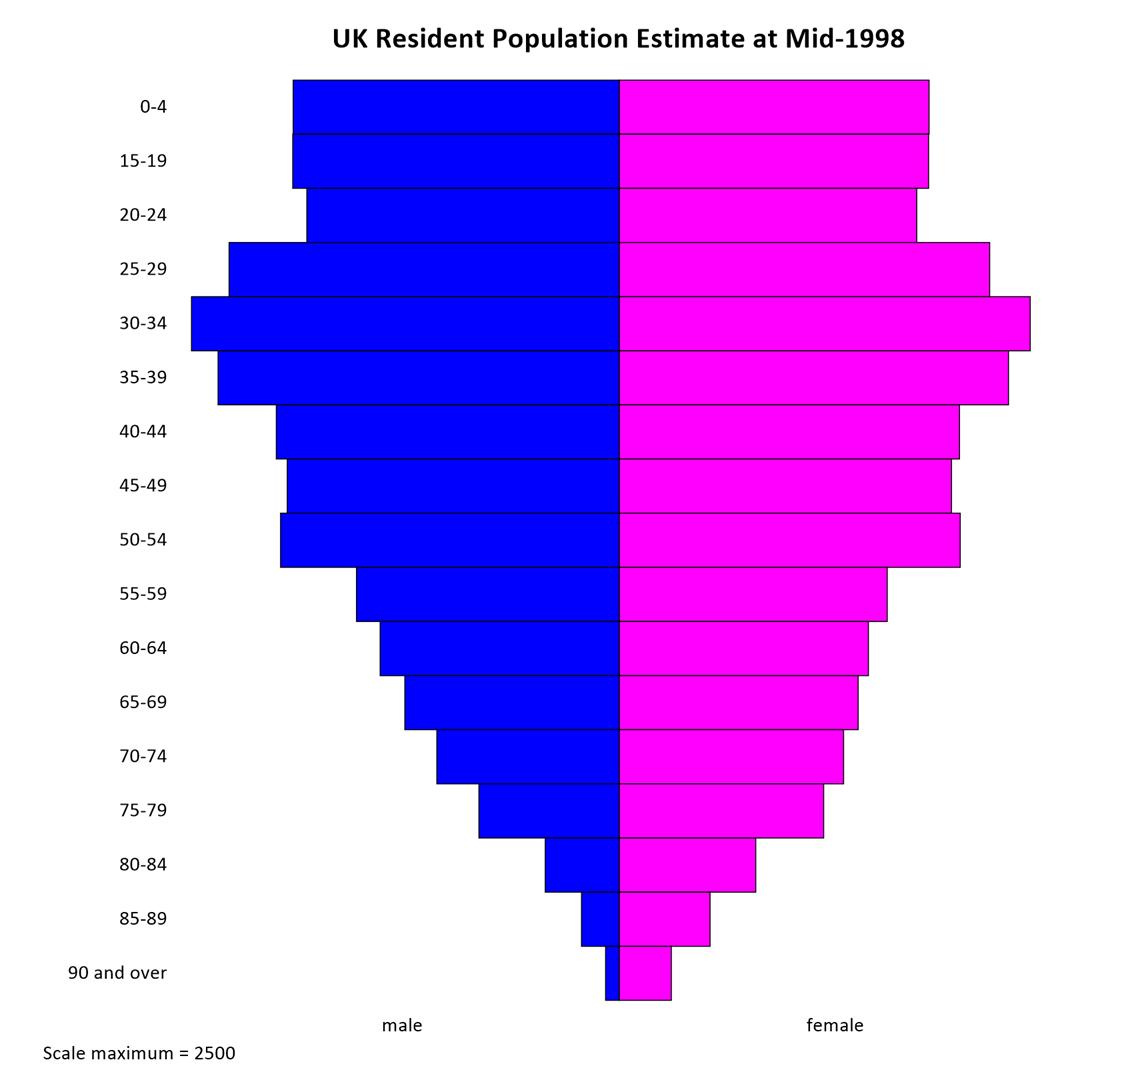
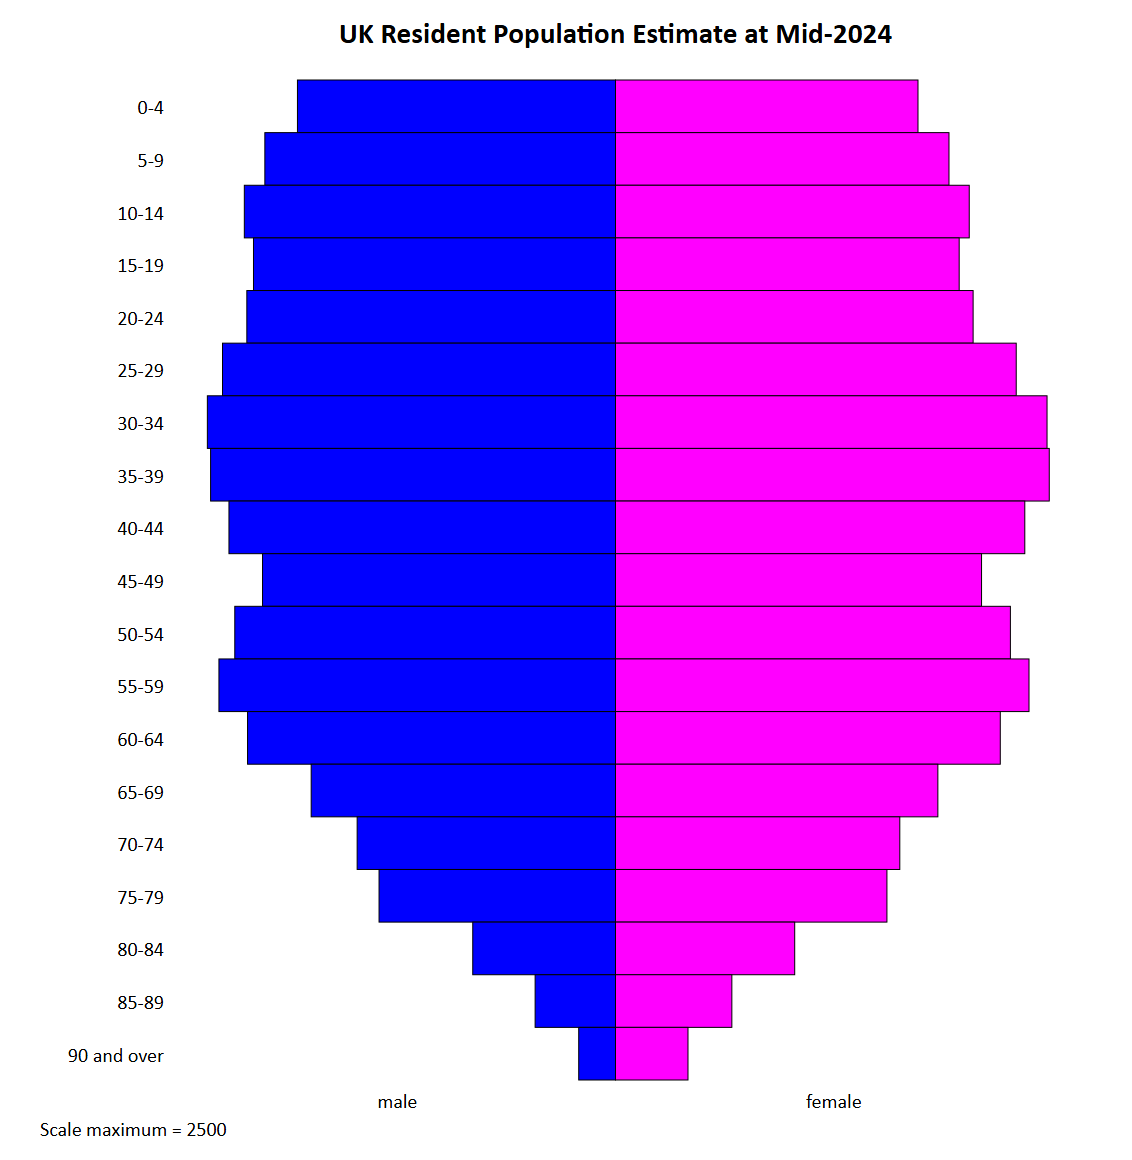
Population pyramid: the example, its R code and its picture follow the test workbook's mid-2024 columns
The workbook's UK Mid-98 columns lacked the 5-9 and 10-14 age bands and are replaced by the Office for National Statistics mid-2024 estimates for the United Kingdom in all 19 bands (UK Mid-2024 Age Bands, Males, Females, Persons), so the example describes and quotes those: the scale maximum of 2500 from the largest count (2484.3 thousand females aged 35-39), Males = 33908.5 and Females = 35347.8 thousand, the widest bands 30-34 and 35-39, males ahead up to 20-24 and females from 25-29, and 1.97 women for each man at 90 and over. The picture is the program's drawing of the new columns, 19 bands, titled for mid-2024. The script holds the 19 rows and prints the same figures; the expected fragments follow.

diff --git a/Content/graphics/population_pyramid.htm b/Content/graphics/population_pyramid.htm
@@ -18,24 +18,24 @@
         <p>StatsDirect lets you specify the maximum scale factor. You might want to specify a maximum scale factor if you are producing several population pyramids that you want to compare on the same scale, in this case the same scale value should be used for all plots.</p>
         <p>&#160;</p>
         <p>
-            <img src="../resources/Images/pyramid.svg" width="566" height="540" border="0" MadCap:conditions="Primary.WEBHELP" /><img src="../resources/Images/pyramid.png" width="566" height="540" border="0" MadCap:conditions="Primary.SWHELP" style="-ms-interpolation-mode: bicubic;" />
+            <img src="../resources/Images/pyramid.svg" width="566" height="580" border="0" MadCap:conditions="Primary.WEBHELP" /><img src="../resources/Images/pyramid.png" width="566" height="580" border="0" MadCap:conditions="Primary.SWHELP" style="-ms-interpolation-mode: bicubic;" />
         </p>
         <p>&#160;</p>
         <p><u>Example</u>
         </p>
-        <p>Test workbook (Graphics worksheet: UK Mid-98 Age Bands, UK Mid-98 Males, UK Mid-98 Females).</p>
+        <p>Test workbook (Graphics worksheet: UK Mid-2024 Age Bands, UK Mid-2024 Males, UK Mid-2024 Females).</p>
         <p>&#160;</p>
-        <p>The chart above shows the resident population of the United Kingdom at mid-1998, in thousands, by sex and five-year age band (Office for National Statistics mid-year estimates). The column marked "UK Mid-98 Age Bands" holds the labels of the 17 age bands in the workbook (the 5-9 and 10-14 bands are not in it), and the columns marked "UK Mid-98 Males" and "UK Mid-98 Females" hold the counts of males and females in each band. The column marked "UK Mid-98 Persons" holds the totals of the two, for a pyramid of totals.</p>
+        <p>The chart above shows the resident population of the United Kingdom at mid-2024, in thousands, by sex and five-year age band (Office for National Statistics mid-year estimates, from the Nomis service). The column marked "UK Mid-2024 Age Bands" holds the labels of the 19 age bands, from 0-4 to 90 and over, and the columns marked "UK Mid-2024 Males" and "UK Mid-2024 Females" hold the counts of males and females in each band. The column marked "UK Mid-2024 Persons" holds the totals of the two, for a pyramid of totals.</p>
         <p>&#160;</p>
-        <p>To draw it in StatsDirect open the test workbook using the file open function of the file menu. Then select Population Pyramid from the Graphics menu. Select the column marked "UK Mid-98 Males" when prompted for the numbers in age groups, the column marked "UK Mid-98 Females" when prompted for the numbers in female age groups, and the column marked "UK Mid-98 Age Bands" when prompted for the group labels. StatsDirect then shows the chart options, where you can type a title and change the scale maximum. The chart above is titled "UK Resident Population Estimate at Mid-1998"; otherwise the chart is titled "Population pyramid".</p>
+        <p>To draw it in StatsDirect open the test workbook using the file open function of the file menu. Then select Population Pyramid from the Graphics menu. Select the column marked "UK Mid-2024 Males" when prompted for the numbers in age groups, the column marked "UK Mid-2024 Females" when prompted for the numbers in female age groups, and the column marked "UK Mid-2024 Age Bands" when prompted for the group labels. StatsDirect then shows the chart options, where you can type a title and change the scale maximum. The chart above is titled "UK Resident Population Estimate at Mid-2024"; otherwise the chart is titled "Population pyramid".</p>
         <p>&#160;</p>
         <p>For this example:</p>
         <p>&#160;</p>
-        <p>The chart draws a bar for each age band, in worksheet order from the top, with the males' count to the left of the centre line and the females' count to the right. Both halves run from 0 at the centre to the scale maximum at the edge, and there is no axis: the scale maximum is written under the chart. Scale maximum = 2500, the default, which is the largest count (2469 thousand males aged 30-34) rounded up to a neat value, or the largest count itself when that is greater; give pyramids that are to be compared the same scale maximum. A pyramid drawn from a single column of totals, with the female column skipped, is split evenly about the centre line.</p>
+        <p>The chart draws a bar for each age band, in worksheet order from the top, with the males' count to the left of the centre line and the females' count to the right. Both halves run from 0 at the centre to the scale maximum at the edge, and there is no axis: the scale maximum is written under the chart. Scale maximum = 2500, the default, which is the largest count (2484.3 thousand females aged 35-39) rounded up to a neat value, or the largest count itself when that is greater; give pyramids that are to be compared the same scale maximum. A pyramid drawn from a single column of totals, with the female column skipped, is split evenly about the centre line.</p>
         <p>&#160;</p>
-        <p>Males = 25175.6 thousand, Females = 26351.8 thousand.</p>
+        <p>Males = 33908.5 thousand, Females = 35347.8 thousand.</p>
         <p>&#160;</p>
-        <p>The pyramid is widest at 30-34, the largest band, which holds the generation born in the 1960s; the bands from 55-59 onwards, born before 1945, are markedly narrower. The two halves are nearly symmetrical in the younger bands, where males slightly outnumber females, but females outnumber males from the 45-49 band upwards and the gap widens with age: at 90 and over there are 3.82 women for each man.</p>
+        <p>The pyramid is widest at 30-34 and 35-39, the two largest bands, which hold the generation born around 1990; the 55-59 band, born in the 1960s, is the next widest, and the bands from 65-69 onwards narrow with age. Males outnumber females in every band up to 20-24, but females outnumber males from the 25-29 band upwards, and from 55-59 the ratio of women to men rises with age: at 90 and over there are 1.97 women for each man.</p>
         <MadCap:dropDown class="rcode">
             <MadCap:dropDownHead class="rcode">
                 <MadCap:dropDownHotspot class="rcode"><img class="rlogo" src="../resources/Images/rcode/r-logo.png" alt="R" title="R code for this example" style="width: 26px;height: 20px;" /> R code</MadCap:dropDownHotspot>
@@ -43,15 +43,16 @@
             <MadCap:dropDownBody>
                 <p class="rcodenote">This R code reproduces the illustration above. It needs no packages and was checked with R 4.6.1. Paste it into R, or save it as a script and run it.</p>
                 <pre class="rcode" xml:space="preserve"># Population pyramid: the StatsDirect help illustration (the resident population of
-# the UK at mid-1998, in thousands, by sex and five-year age band; the test workbook's
-# Graphics worksheet columns UK Mid-98 Age Bands, UK Mid-98 Males and UK Mid-98
+# the UK at mid-2024, in thousands, by sex and five-year age band; the test workbook's
+# Graphics worksheet columns UK Mid-2024 Age Bands, UK Mid-2024 Males and UK Mid-2024
 # Females) in R
-band &lt;- c("0-4", "15-19", "20-24", "25-29", "30-34", "35-39", "40-44", "45-49", "50-54",
-          "55-59", "60-64", "65-69", "70-74", "75-79", "80-84", "85-89", "90 and over")
-males &lt;- c(1882.1, 1884.2, 1803.2, 2251.8, 2469, 2315.2, 1979.2, 1916.3, 1954.8, 1516.2,
-           1379.7, 1237.6, 1052.7, 809.8, 427.2, 217.9, 78.7)
-females &lt;- c(1788.6, 1785.4, 1717.2, 2138.3, 2372.5, 2247, 1963.9, 1917.7, 1968.2,
-             1547.1, 1438.3, 1379.4, 1294.8, 1180, 787.9, 524.5, 301)
+band &lt;- c("0-4", "5-9", "10-14", "15-19", "20-24", "25-29", "30-34", "35-39", "40-44",
+          "45-49", "50-54", "55-59", "60-64", "65-69", "70-74", "75-79", "80-84", "85-89",
+          "90 and over")
+males &lt;- c(1821.6, 2008.3, 2125.9, 2073.4, 2111.5, 2250.8, 2337.6, 2319, 2213.9, 2021.6,
+           2180.5, 2271.3, 2107.4, 1743, 1479.7, 1354.3, 817.6, 460.4, 210.7)
+females &lt;- c(1732.5, 1910, 2026, 1968.4, 2048.2, 2295.1, 2471.6, 2484.3, 2344.2, 2096.5,
+             2261.7, 2368.3, 2203.8, 1846.3, 1628.3, 1554.6, 1026.4, 666.4, 415.2)
 
 # StatsDirect draws a bar for each age band, in worksheet order from the top, with the
 # males' count to the left of a centre line and the females' count to the right. Both
@@ -80,13 +81,13 @@ mtext(c("male", "female"), side = 1, at = c(-scale_max, scale_max) / 2, line = 0
 mtext(paste("Scale maximum =", scale_max), side = 1, line = 2.5, adj = 0)
 par(op)
 
-# A pyramid from a single column of totals (the workbook's UK Mid-98 Persons) is split
-# evenly about the centre line: rect(-total / 2, top - 1, total / 2, top).
+# A pyramid from a single column of totals (the workbook's UK Mid-2024 Persons) is
+# split evenly about the centre line: rect(-total / 2, top - 1, total / 2, top).
 
 # The values plotted
-cat("UK Mid-98 Age Bands   UK Mid-98 Males   UK Mid-98 Females\n")
+cat("UK Mid-2024 Age Bands   UK Mid-2024 Males   UK Mid-2024 Females\n")
 for (i in seq_len(n)) {
-  cat(sprintf("%-21s %15.1f %19.1f\n", band[i], males[i], females[i]))
+  cat(sprintf("%-23s %17.1f %21.1f\n", band[i], males[i], females[i]))
 }
 
 # What the chart shows, in thousands
@@ -94,8 +95,8 @@ six &lt;- function(x) formatC(x, digits = 6, format = "f", drop0trailing = TRUE)
 cat("Males =", six(sum(males)), "  Females =", six(sum(females)), "\n")
 cat("Largest band:", band[which.max(males + females)], "\n")
 cat("Females outnumber males from the", band[females &gt; males][1], "band upwards\n")
-ratio &lt;- formatC(females[n] / males[n], digits = 2, format = "f")
-cat("At 90 and over there are", ratio, "women for each man\n")</pre>
+cat("At 90 and over:", formatC(females[n] / males[n], digits = 2, format = "f"),
+    "women for each man\n")</pre>
             </MadCap:dropDownBody>
         </MadCap:dropDown>
         <p>&#160;</p>
